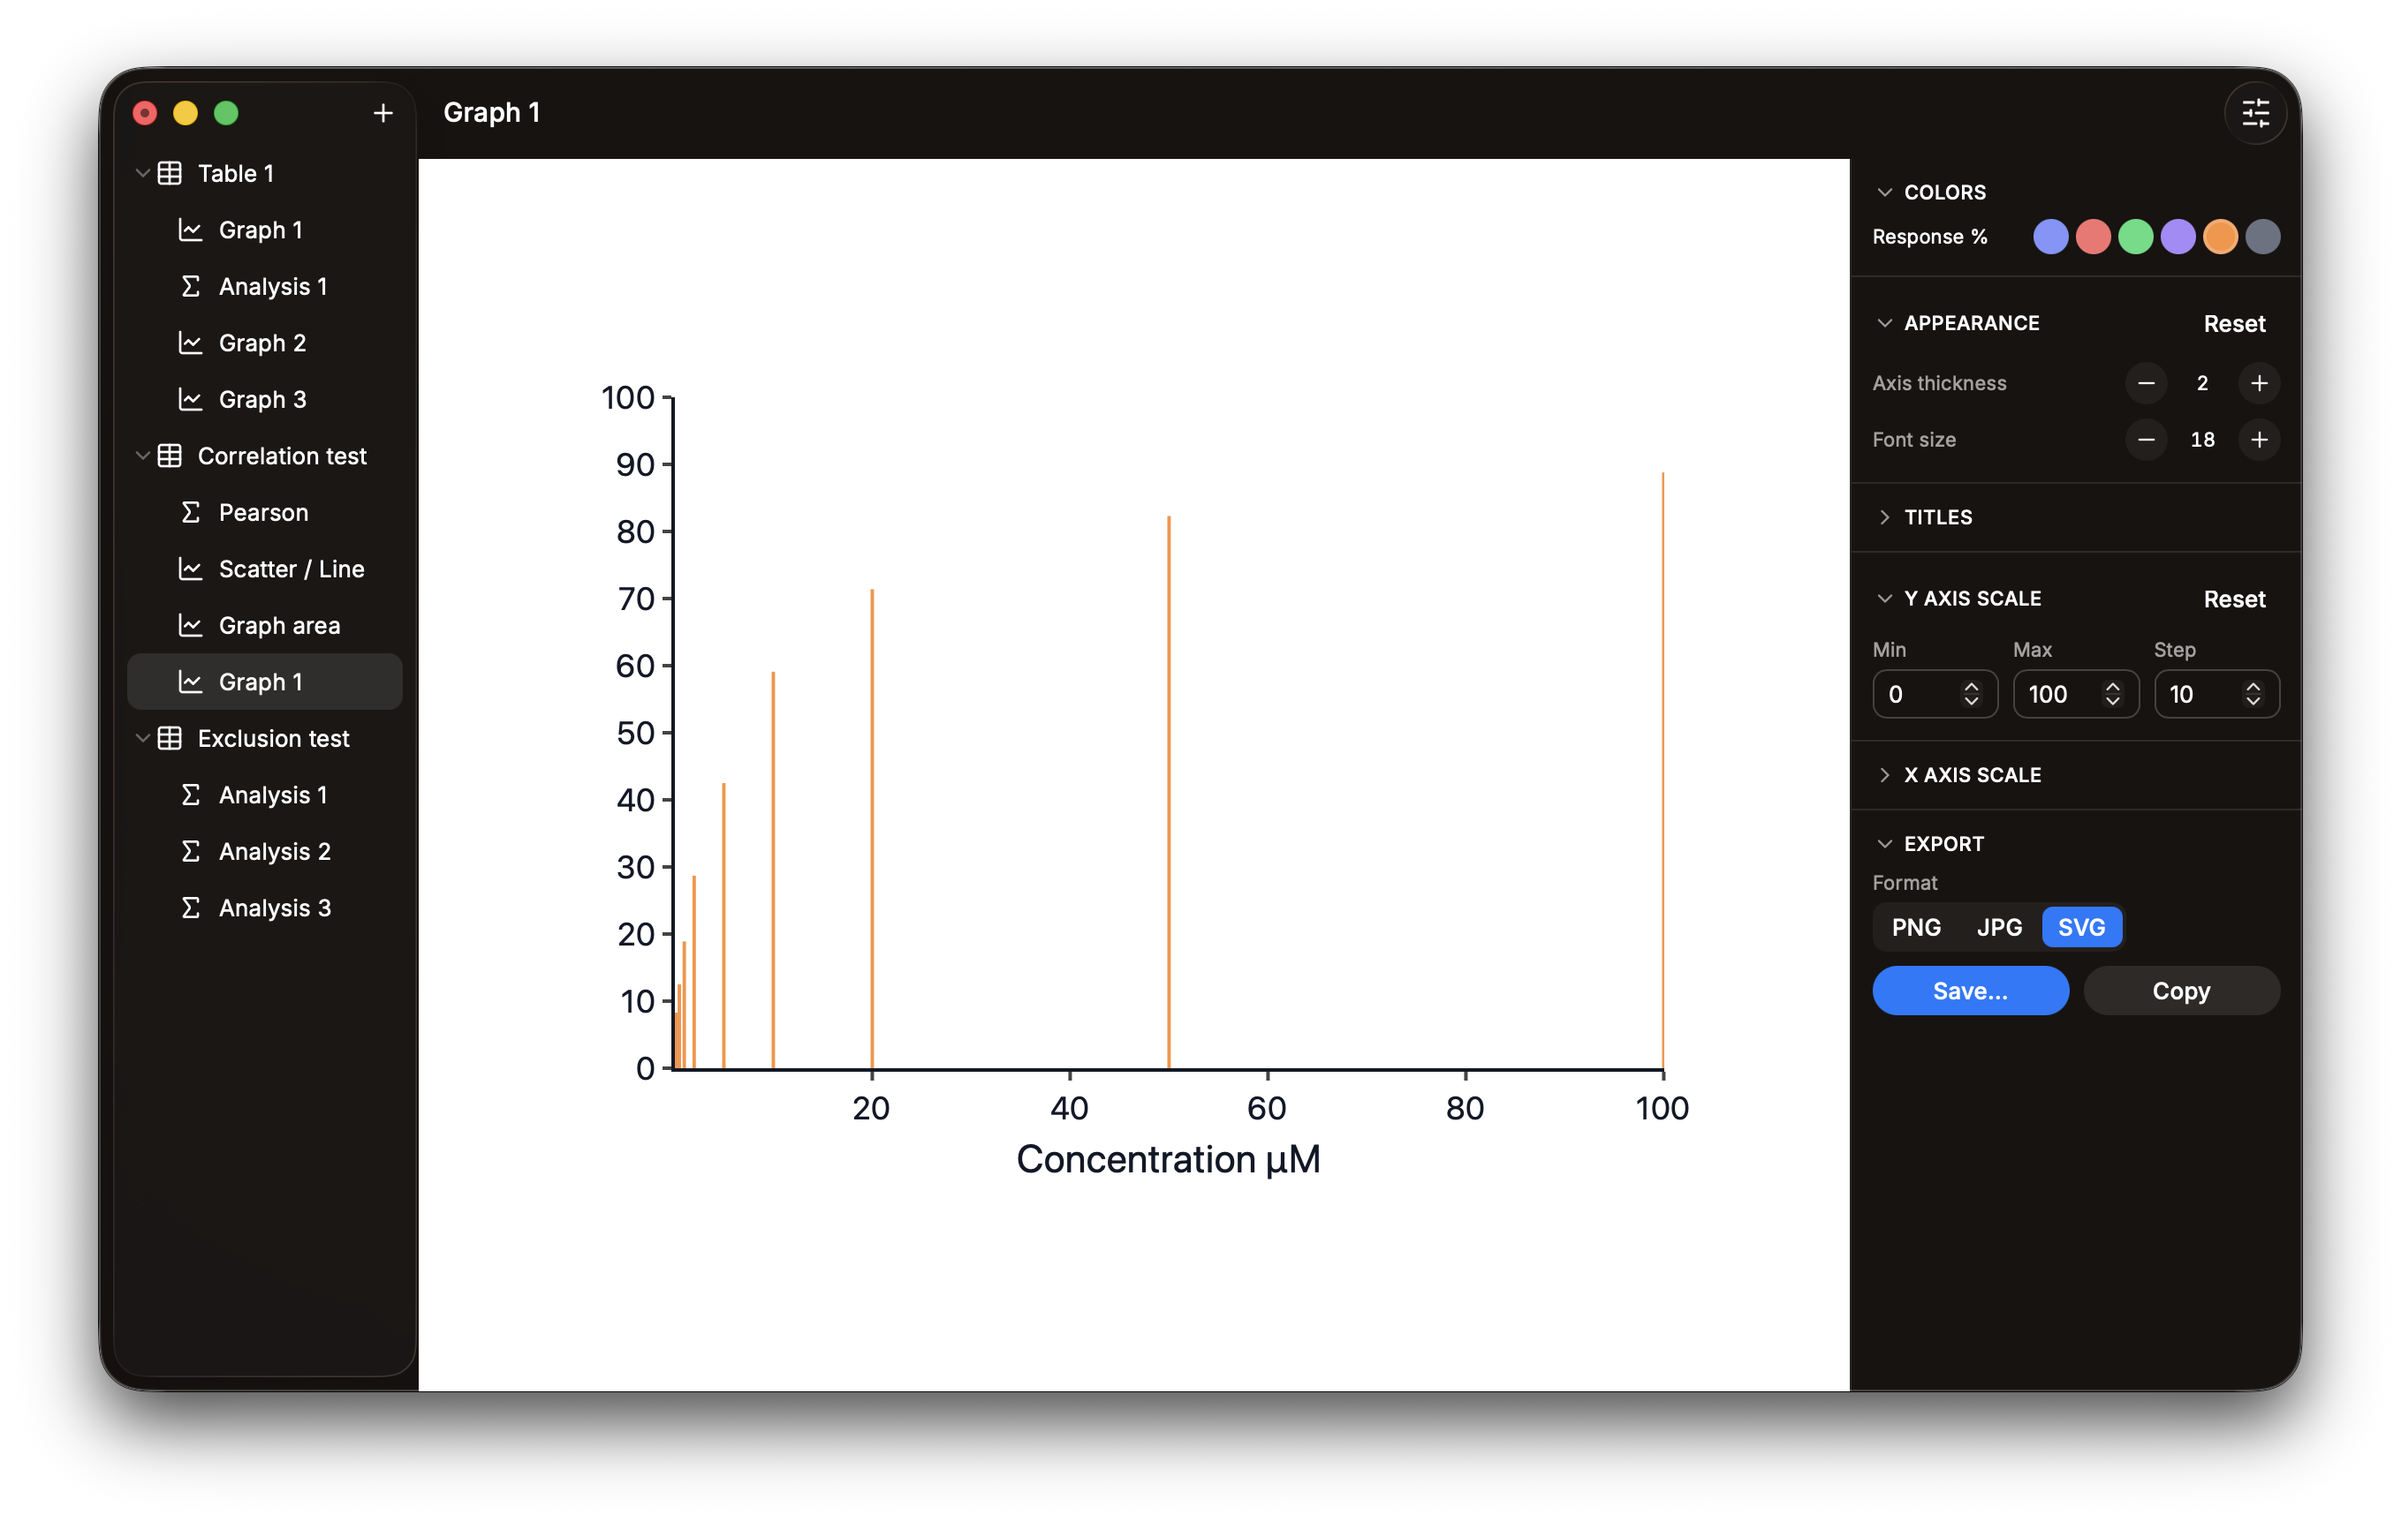
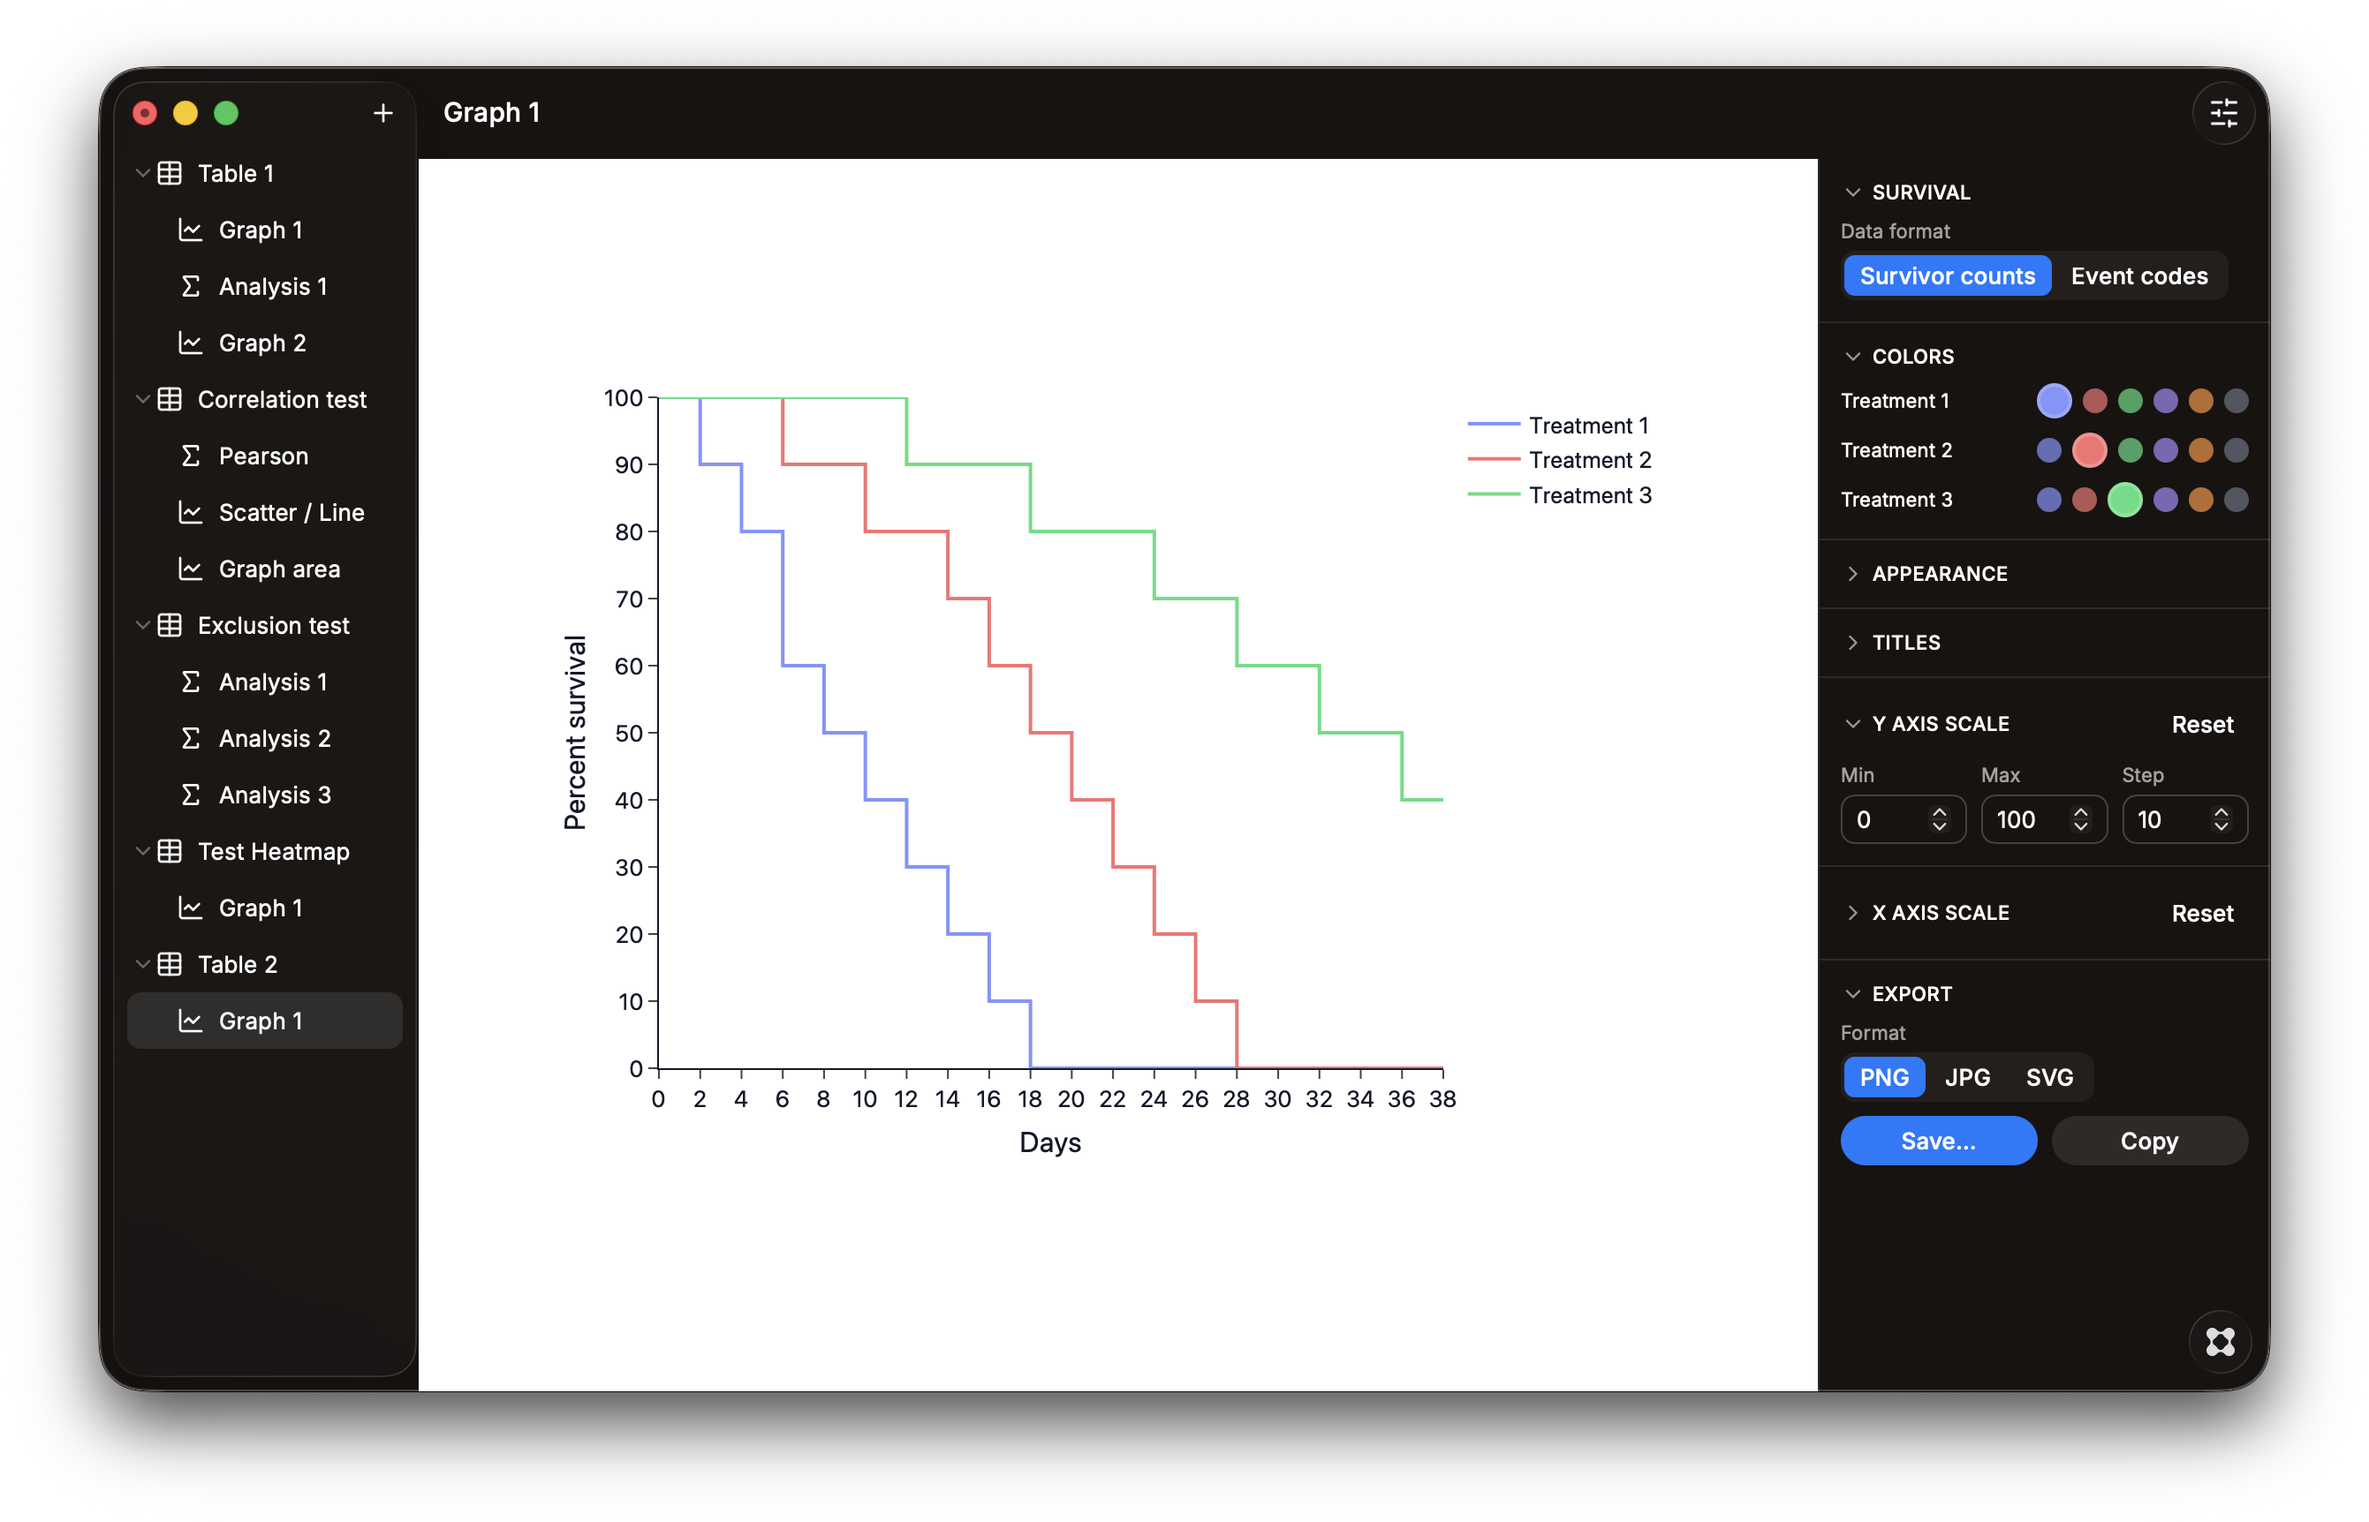
Add files via upload

diff --git a/index.html b/index.html
@@ -616,7 +616,21 @@
                     <h3>Release Notes</h3>
                     <div class="card-scroll">
                         <div class="release-item">
-                            <span class="release-badge">v3.0 — Latest</span>
+                            <span class="release-badge">v4.0 — Latest</span>
+                            <ul>
+                                <li><strong>NEW:</strong> Pie and Donut charts for Column tables — each column becomes a slice sized by its total or mean, with optional percentage labels.</li>
+                                <li><strong>NEW:</strong> One-click Dose response curve for XY tables — fits a sigmoidal 4-parameter (4PL) model and shows the EC50 and Hill slope directly on the graph, with no separate analysis to set up.</li>
+                                <li><strong>NEW:</strong> Heatmap for Multiple Variables tables — color-codes every value across variables and subjects, with selectable color scales (Viridis / Red-Blue / Heat), optional value labels and a legend.</li>
+                                <li><strong>NEW:</strong> Survival curve (Kaplan-Meier) for XY tables — step curve with censored-subject tick marks, supporting two data formats: one-row-per-subject event codes, or raw survivor counts per timepoint.</li>
+                                <li><strong>NEW:</strong> Identify outliers (ROUT method) for Column tables — flags outliers column-by-column with a robust fit and false-discovery-rate control (adjustable Q), following the published Motulsky & Brown method, and lists exactly which rows to exclude.</li>
+                                <li><strong>FIXED:</strong> Dose response curves silently failing to fit real data — the fit now keeps an X=0 control/vehicle point instead of rejecting the whole dataset, defaults to the raw-concentration model, and shows an inline message when a model genuinely can't fit the data.</li>
+                                <li><strong>FIXED:</strong> Survival curves misreading "number still alive at each timepoint" data as event codes — a new Data format switch (Event codes / Survivor counts) makes both conventions plot correctly.</li>
+                                <li><strong>FIXED:</strong> Dose response Model button labels being clipped in the side panel.</li>
+                                <li><strong>IMPROVED:</strong> Clearer color selection — the chosen color is now a larger dot while the others shrink and dim, consistently in the graph's Colors panel and the spreadsheet's right-click Color menu.</li>
+                            </ul>
+                        </div>
+                        <div class="release-item">
+                            <span class="release-badge">v3.0</span>
                             <ul>
                                 <li><strong>NEW:</strong> Add a linear regression fit line with 95% confidence band and curve equation (Y = aX + b) directly on XY scatter graphs.</li>
                                 <li><strong>NEW:</strong> Customize graph colors: set a color per data series from the graph's new Colors panel, and highlight individual points by coloring single cells directly from the spreadsheet's right-click menu.</li>
@@ -650,10 +664,10 @@
                     <h3>Data Organization</h3>
                     <div class="card-scroll">
                         <ul>
-                            <li><strong>Three-pillar structure:</strong> Tables → Analyses / Graphs, with every analysis and graph linked back to its source table</li>
-                            <li><strong>4 table types:</strong> Column, XY, Grouped, Multiple Variables</li>
-                            <li><strong>Spreadsheet-style grid:</strong> Copy/paste, undo/redo, multi-cell selection, row/column deletion</li>
-                            <li><strong>Data exclusion:</strong> selectively exclude data points from graphs and statistical analyses</li>
+                            <li><strong>Three-pillar structure</strong> — Tables → Analyses / Graphs, with every analysis and graph linked back to its source table</li>
+                            <li><strong>4 table types</strong> — Column, XY, Grouped, Multiple Variables — each offering the analyses and graphs that fit its data shape</li>
+                            <li><strong>Spreadsheet-style grid</strong> — Copy/paste, undo/redo, multi-cell selection, row/column deletion</li>
+                            <li><strong>Data exclusion</strong> — selectively exclude data points from graphs and statistical analyses</li>
                         </ul>
                     </div>
                 </article>
@@ -662,16 +676,12 @@
                     <h3>Statistical Analyses</h3>
                     <div class="card-scroll">
                         <ul>
-                            <li><strong>Smart guided wizards:</strong> for test selection based on your table type</li>
-                            <li><strong>Descriptive statistics</strong></li>
-                            <li><strong>Compare two groups:</strong> Student's t test, Welch's t test, Mann-Whitney, paired t test, Wilcoxon</li>
-                            <li><strong>Compare multiple groups:</strong> One-way ANOVA, Kruskal-Wallis, repeated-measures ANOVA, Friedman test</li>
-                            <li><strong>Post-hoc tests:</strong> Tukey, Bonferroni, Dunn's test</li>
-                            <li><strong>One-sample t test, correlation &amp; correlation matrix</strong></li>
-                            <li><strong>Linear regression and nonlinear regression:</strong> (straight line, sigmoidal 4PL, semilog, hyperbola, polynomials)</li>
-                            <li><strong>Two-way ANOVA</strong></li>
-                            <li><strong>Multiple regression and multiple t tests</strong></li>
-                            <li><strong>Multiple-comparison corrections:</strong> Holm, FDR (Benjamini-Hochberg)</li>
+                            <li><strong>Smart guided wizards</strong> propose the right test for your table type</li>
+                            <li><strong>Column tables</strong> — descriptive statistics; compare two groups (Student's t, Welch's t, Mann-Whitney, paired t, Wilcoxon); compare multiple groups (one-way ANOVA, Kruskal-Wallis, repeated-measures ANOVA, Friedman); one-sample t test; identify outliers (ROUT method, Motulsky & Brown, with adjustable false-discovery-rate Q)</li>
+                            <li><strong>XY tables</strong> — correlation, linear regression, nonlinear regression (straight line, sigmoidal 4PL, semilog, hyperbola, polynomials), area under the curve</li>
+                            <li><strong>Grouped tables</strong> — two-way ANOVA, multiple t tests</li>
+                            <li><strong>Multiple Variables tables</strong> — correlation matrix, multiple regression</li>
+                            <li><strong>Across all tests</strong> — post-hoc comparisons (Tukey, Bonferroni, Dunn's) and multiple-comparison corrections (Holm, FDR / Benjamini-Hochberg)</li>
                         </ul>
                     </div>
                 </article>
@@ -680,27 +690,30 @@
                     <h3>Graphs</h3>
                     <div class="card-scroll">
                         <ul>
-                            <li><strong>Chart types:</strong> Individual values, box plots, violin plots, scatter, line, bars, area, stacked bars</li>
-                            <li><strong>Custom colors:</strong> assign a color to each data series, or highlight individual data points; colors are shared by every graph drawn from the same table</li>
-                            <li><strong>Regression overlay:</strong> draw a linked linear-regression fit line, 95% confidence band, and equation with R² directly on scatter plots</li>
-                            <li><strong>Interactive rendering:</strong> zoom in and out, adjust axes thickness and font size</li>
-                            <li><strong>Resizable graphs:</strong> drag any axis to resize, with a live size readout to match dimensions across graphs</li>
-                            <li><strong>Axis control:</strong> Manual or automatic min/max/step</li>
-                            <li><strong>Error bars:</strong> SD, SEM, or none</li>
-                            <li><strong>Significance annotations:</strong> Stars or p-values with pairwise comparisons</li>
-                            <li><strong>Export to:</strong> PNG, JPG, or SVG; copy to clipboard</li>
+                            <li><strong>Column tables</strong> — individual values, box & violin plots, mean ± error bars, pie and donut charts</li>
+                            <li><strong>XY tables</strong> — scatter, bar, and area plots; dose-response curves (one-click sigmoidal 4PL with EC50 and Hill slope on the graph); Kaplan-Meier survival curves (censored-subject ticks, from event codes or survivor counts)</li>
+                            <li><strong>Grouped tables</strong> — grouped scatter, bars, lines, stacked bars, horizontal bars</li>
+                            <li><strong>Multiple Variables tables</strong> — heatmaps with selectable color scales (Viridis / Red-Blue / Heat), optional value labels and a legend</li>
+                            <li><strong>Shared across every graph:</strong> Custom colors — assign a color to each data series, or highlight individual data points; colors are shared by every graph drawn from the same table</li>
+                            <li><strong>Regression overlay</strong> — draw a linked linear-regression fit line, 95% confidence band, and equation with R² directly on scatter plots</li>
+                            <li><strong>Interactive rendering</strong> — zoom in and out, adjust axes thickness and font size</li>
+                            <li><strong>Resizable graphs</strong> — drag any axis to resize, with a live size readout to match dimensions across graphs</li>
+                            <li><strong>Axis control</strong> — manual or automatic min/max/step</li>
+                            <li><strong>Error bars</strong> — SD, SEM, or none</li>
+                            <li><strong>Significance annotations</strong> — stars or p-values with pairwise comparisons</li>
+                            <li><strong>Export to</strong> PNG, JPG, or SVG; copy to clipboard</li>
                         </ul>
                     </div>
                 </article>
 
                 <article class="feature-card">
-                    <h3>Projects &amp; Interface</h3>
+                    <h3>Projects & Interface</h3>
                     <div class="card-scroll">
                         <ul>
-                            <li><strong>Native .hlx project format:</strong> (JSON-based, fully portable) — open and edit with any text editor</li>
-                            <li><strong>Native menu bar:</strong> with keyboard shortcuts</li>
-                            <li><strong>Decimal separator conversion:</strong> automatically convert commas to periods in all spreadsheet numbers (required for R compatibility)</li>
-                            <li><strong>Themes:</strong> Light, dark, or automatic theme</li>
+                            <li><strong>Native .hlx project format</strong> (JSON-based, fully portable) — open and edit with any text editor</li>
+                            <li><strong>Native menu bar</strong> with keyboard shortcuts</li>
+                            <li><strong>Decimal separator conversion</strong> — automatically convert commas to periods in all spreadsheet numbers (required for R compatibility)</li>
+                            <li><strong>Light, dark, or automatic theme</strong></li>
                         </ul>
                     </div>
                 </article>
